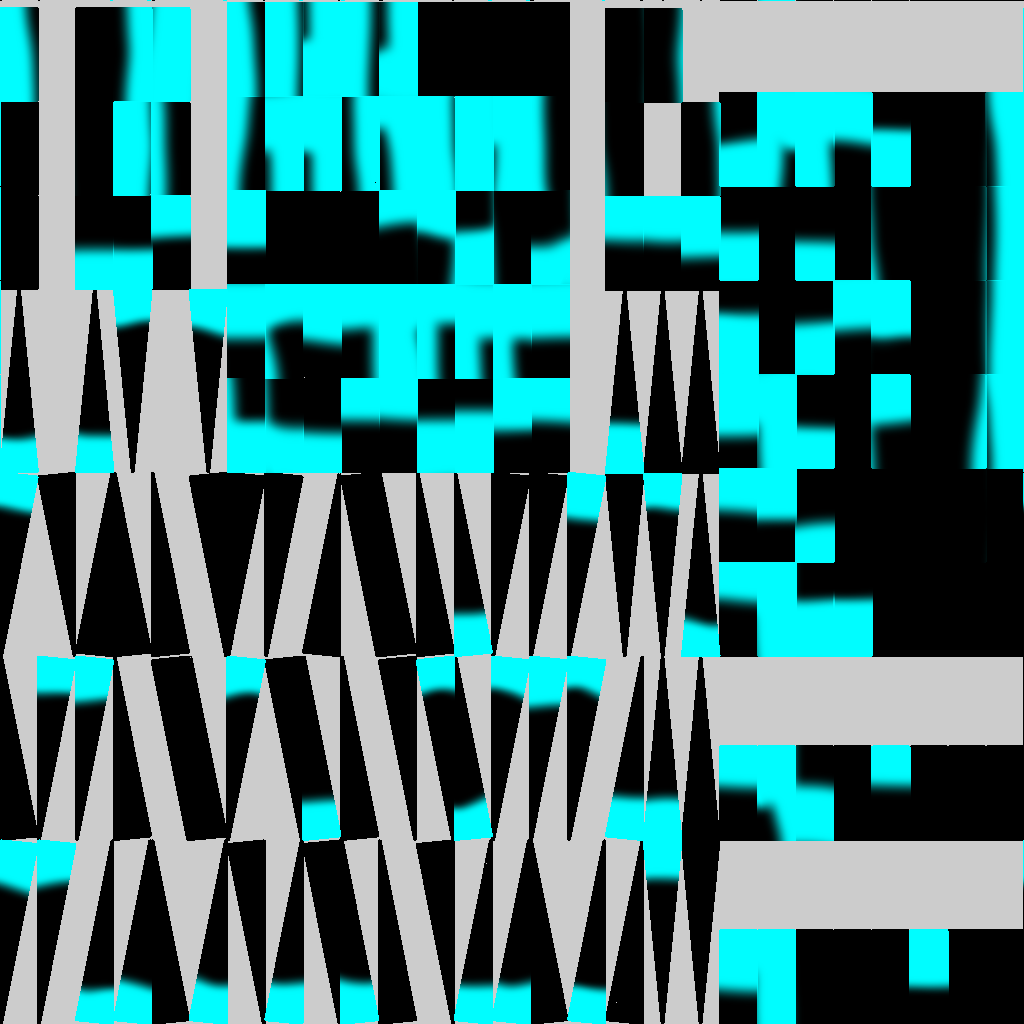
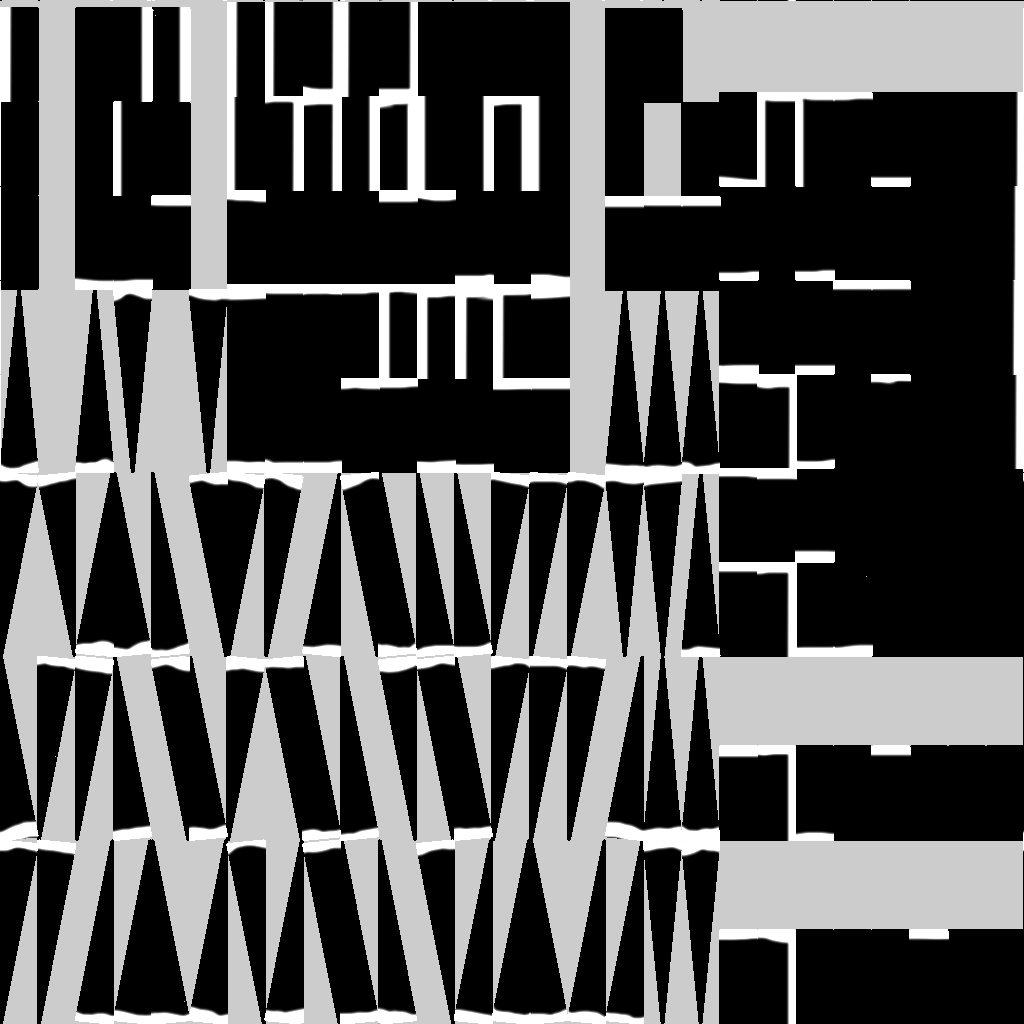
color swap, hide tooltips, no more fullscreen

diff --git a/main.py b/main.py
@@ -4,7 +4,7 @@ import random
 
 """
 -GRID SIMULATION-
-Originally written by L.Kam
+Originally written by L.Kaminski
 
 A program simulating 'Grid,' a 3-dimensional digital space designed to create structures. it's based heavily off
 'The Grid' from Tron.
@@ -33,8 +33,8 @@ app = Ursina()#define app
 player = FirstPersonController()#init player
 
 #preworked settings/preloaded assets
-grid = Entity(model='plane', texture='resource_grid', collider='mesh', scale=10000, texture_scale=(10000,10000))
-basis = Entity(model='cube', texture='resource_structure', collider='mesh', scale=2, y=-2)
+grid = Entity(model='plane', texture='resource_grid', collider='mesh', scale=10000, color=color.cyan, texture_scale=(10000,10000))
+basis = Entity(model='cube', texture='resource_structure', collider='mesh', color=color.cyan, scale=2, y=-2)
 sky = Sky()
 sky.texture = 'resource_skybox'
 player.cursor.color=color.cyan
@@ -66,7 +66,7 @@ nudge = Audio(sound_file_name='nudge.wav', autoplay=False, volume=0.3)
 ambience = Audio(sound_file_name='cyber.mp3', autoplay=False, loop=True, volume=0.6)
 ambience.play()
 
-window.fullscreen=True
+#window.fullscreen=True
 
 def update():
     global modelnum
@@ -77,6 +77,7 @@ def update():
     grid.scale = 10000
     grid.enable()
     grid.position = (0, 0, 0)
+    grid.rotation = (0, 0, 0)
 
 #sprinting
     if held_keys['shift']:
@@ -116,7 +117,7 @@ def make_cylinder_structure():
         pass
 
 def make_torus_structure():
-    basis2 = duplicate(basis, model='torus', collider='mesh', x=mouse.world_point.x, z=mouse.world_point.z, y=defaultheight, rotation=(0,0,0), scale_y=0)
+    basis2 = duplicate(basis, model='torus', collider='mesh', texture='resource_torus', x=mouse.world_point.x, z=mouse.world_point.z, y=defaultheight, rotation=(0,0,0), scale_y=0)
     basis2.animate_scale_y(10, duration=animationtime, curve=curve.linear, loop=False)
     creator.play()
 
@@ -192,9 +193,13 @@ Arrow Keys + (-/=/m) - Move/Rotate Structure Axis (based on height modifier)
 V - Erase Structure
 , / . - Height Mod Adjust Up/Down (Hold CTRL to +10)
 [ / ] - Scale Mod Adjust Up/Down (Hold CTRL to +10)
+C - Swap colors
+J - Hide tooltips
 """
 
-tooltips = Text(text=controls, origin=(-.5,.5), color=color.cyan, size=.010, x=-0.87, y=0.52)
+tooltips = Text(text=controls, origin=(-.5,.5), color=color.cyan, x=-0.87, y=0.52)
+tooltips.size = 1
+tooltips.wordwrap = False
 
 #eraser func
 def erase_structure():
@@ -206,6 +211,7 @@ def erase_structure():
 
 #input handler
 def input(key):
+    global tooltips
     if key == '0':
         quit()
     if key == '1':
@@ -225,43 +231,64 @@ def input(key):
         modify_structure()
     if key == 'up arrow':
         try:
-            mouse.hovered_entity.x += heightmodlevel
+            piss = mouse.hovered_entity.position.x
+            piss2 = mouse.hovered_entity.position.y
+            piss3 = mouse.hovered_entity.position.z
+            mouse.hovered_entity.animate_position((piss+heightmodlevel, piss2, piss3), duration=animationtime, curve=curve.linear)
             nudge.play()
         except AttributeError:
             pass
     if key == 'down arrow':
         try:
-            mouse.hovered_entity.x -= heightmodlevel
+            piss = mouse.hovered_entity.position.x
+            piss2 = mouse.hovered_entity.position.y
+            piss3 = mouse.hovered_entity.position.z
+            mouse.hovered_entity.animate_position((piss-heightmodlevel, piss2, piss3), duration=animationtime, curve=curve.linear)
             nudge.play()
         except AttributeError:
             pass
     if key == 'left arrow':
         try:
-            mouse.hovered_entity.z += heightmodlevel
+            piss = mouse.hovered_entity.position.x
+            piss2 = mouse.hovered_entity.position.y
+            piss3 = mouse.hovered_entity.position.z
+            mouse.hovered_entity.animate_position((piss, piss2, piss3+heightmodlevel), duration=animationtime, curve=curve.linear)
             nudge.play()
         except AttributeError:
             pass
     if key == 'right arrow':
         try:
-            mouse.hovered_entity.z -= heightmodlevel
+            piss = mouse.hovered_entity.position.x
+            piss2 = mouse.hovered_entity.position.y
+            piss3 = mouse.hovered_entity.position.z
+            mouse.hovered_entity.animate_position((piss, piss2, piss3-heightmodlevel), duration=animationtime, curve=curve.linear)
             nudge.play()
         except AttributeError:
             pass
     if key == '=':
         try:
-            mouse.hovered_entity.y += heightmodlevel
+            piss = mouse.hovered_entity.position.x
+            piss2 = mouse.hovered_entity.position.y
+            piss3 = mouse.hovered_entity.position.z
+            mouse.hovered_entity.animate_position((piss, piss2+heightmodlevel, piss3), duration=animationtime, curve=curve.linear)
             nudge.play()
         except AttributeError:
             pass
     if key == 'm':
         try:
-            mouse.hovered_entity.rotation_y += heightmodlevel
+            piss = mouse.hovered_entity.rotation.x
+            piss2 = mouse.hovered_entity.rotation.y
+            piss3 = mouse.hovered_entity.rotation.z
+            mouse.hovered_entity.animate_rotation((piss, piss2+heightmodlevel, piss3), duration=animationtime, curve=curve.linear)
             nudge.play()
         except AttributeError:
             pass
     if key == '-':
         try:
-            mouse.hovered_entity.y -= heightmodlevel
+            piss = mouse.hovered_entity.position.x
+            piss2 = mouse.hovered_entity.position.y
+            piss3 = mouse.hovered_entity.position.z
+            mouse.hovered_entity.animate_position((piss, piss2-heightmodlevel, piss3), duration=animationtime, curve=curve.linear)
             nudge.play()
         except AttributeError:
             pass
@@ -287,7 +314,20 @@ def input(key):
         mod_scale_print_up()
     if key == '[':
         mod_scale_print_down()
+    if key == 'c':
+        try:
+            if mouse.hovered_entity.color == color.cyan:
+                mouse.hovered_entity.color = color.orange
+            else:
+                mouse.hovered_entity.color = color.cyan
+        except AttributeError:
+            pass
     if key == 'v':
         erase_structure()
+    if key == 'j':
+        if tooltips.enabled == False:
+            tooltips.enabled = True
+        elif tooltips.enabled == True:
+            tooltips.enabled = False
 
 app.run()#init app
